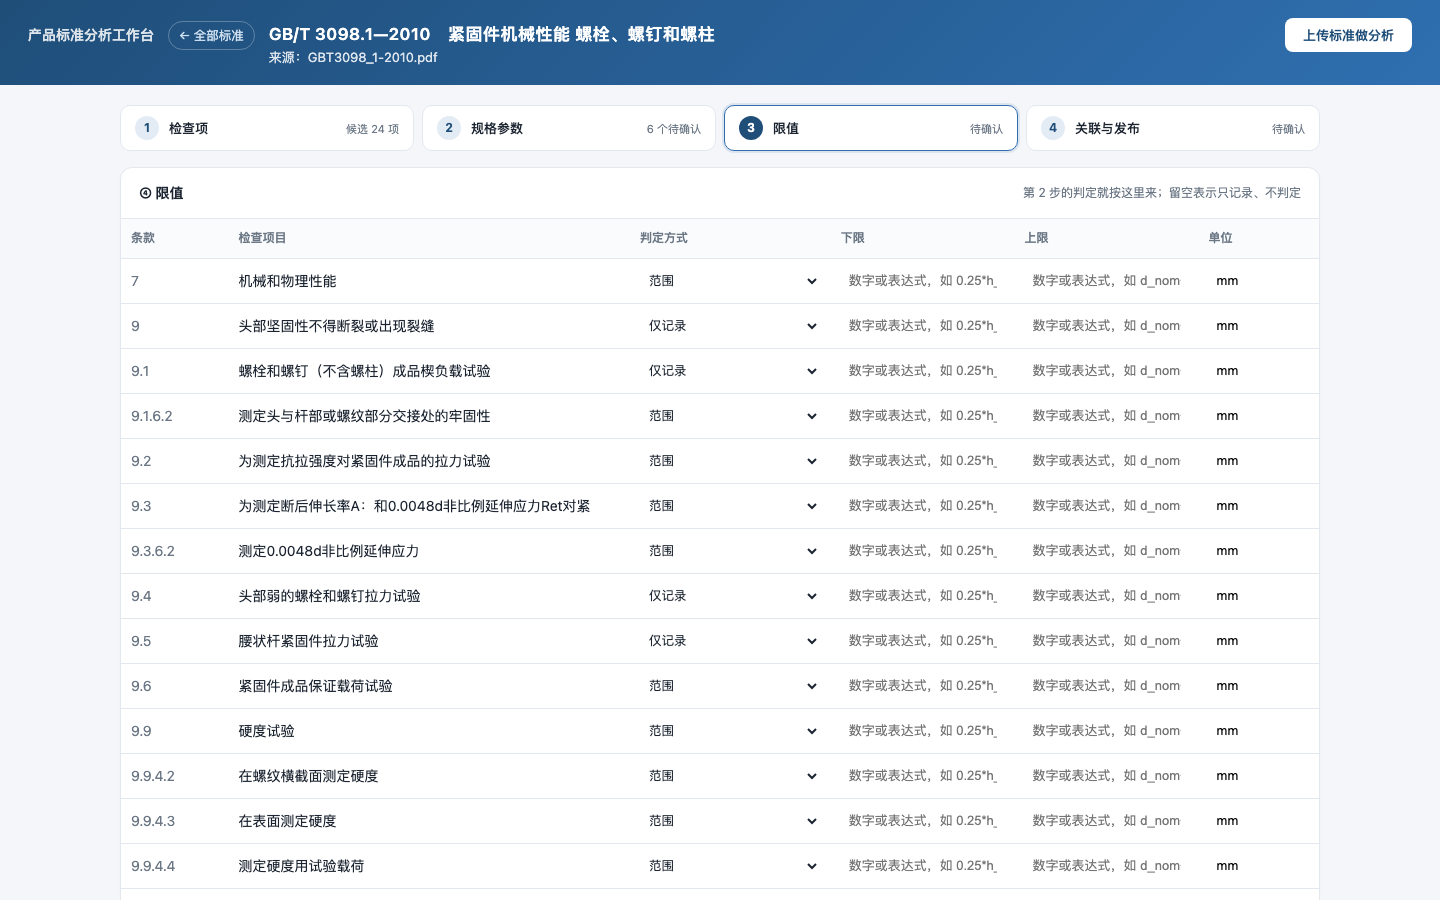
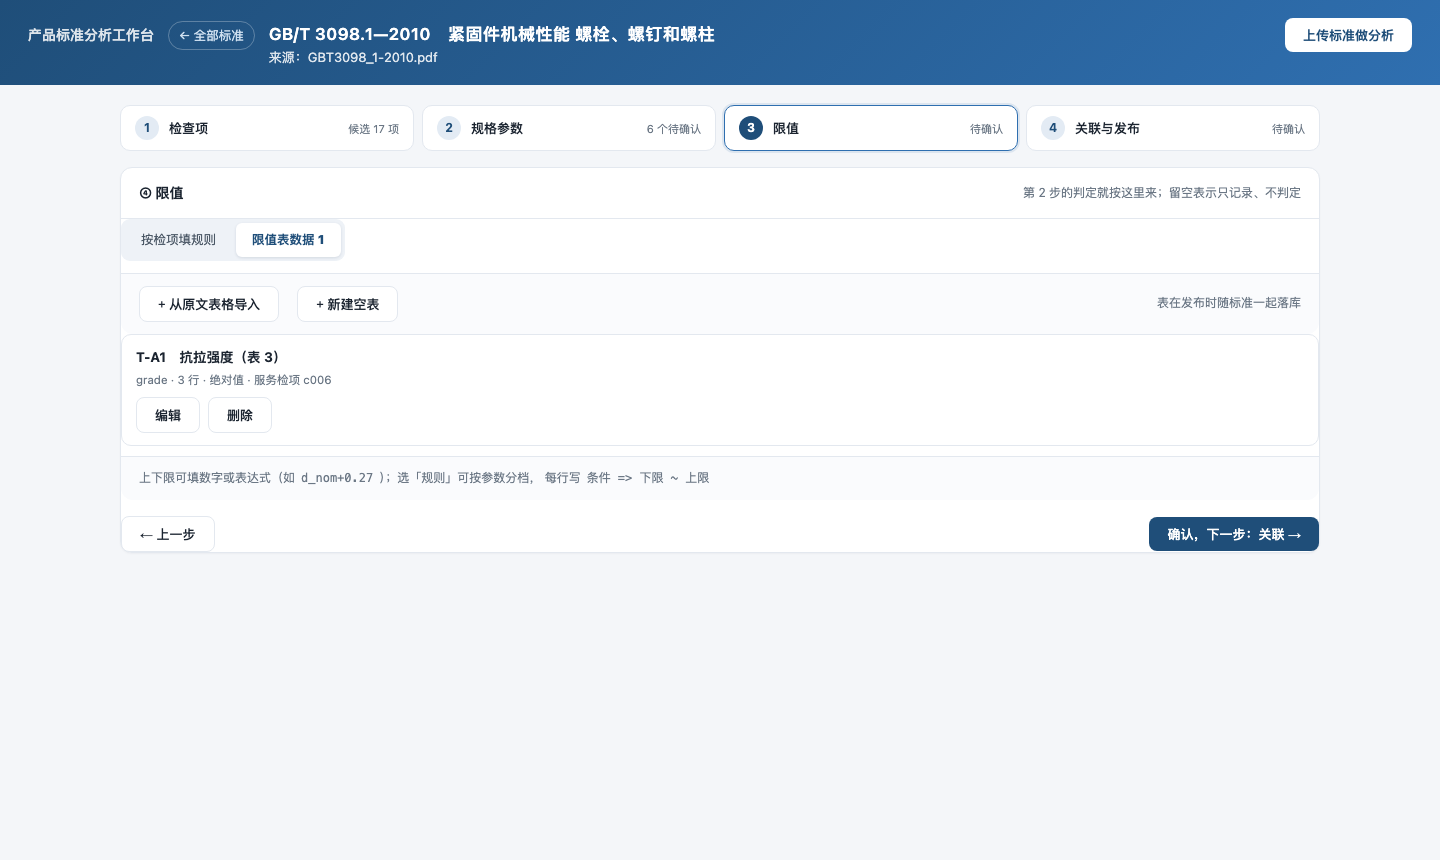
feat: 第 3 步可建限值表草稿，发布时随标准落库
- 作业新增 table_drafts：POST/DELETE /api/analyze/jobs/{id}/tables
- 第 3 步加「限值表数据」页签：从原文表格导入 / 新建空表 / 编辑 / 删除
- 编辑器支持草稿模式（E.std 为空时存作业而不是标准）
- 第 4 步来源下拉直接列出草稿表，按 item_code 预选
- 发布时把草稿表写进 limit_table/dim/row，并把 items 绑到对应表
- 修 renderLinks 的 TDZ 崩溃、发布后内存标准未刷新
- 测试补 4 项（草稿保存/可见/落库/绑定）

diff --git a/g1/service/templates/index.html b/g1/service/templates/index.html
@@ -60,6 +60,15 @@
   th:nth-child(5){width:96px} th:nth-child(6){width:150px}
   th:nth-child(7){width:96px} th:nth-child(8){width:44px}
   tbody tr.item:hover{background:#fafcff}
+  .tabs2{display:inline-flex;gap:4px;background:#eef2f7;padding:4px;border-radius:9px}
+  .tabs2 button{border:0;background:transparent;padding:7px 16px;border-radius:6px;
+                font:inherit;font-size:12.5px;color:#4a5765;cursor:pointer}
+  .tabs2 button.on{background:#fff;color:var(--brand);font-weight:600;
+                   box-shadow:0 1px 3px rgba(16,40,70,.12)}
+  .draft{border:1px solid var(--line);border-radius:10px;padding:12px 14px;margin-bottom:10px;background:#fff}
+  .draft h4{margin:0 0 4px;font-size:13.5px}
+  .draft .meta{font-size:11.5px;color:var(--muted)}
+  .draft .ops{display:flex;gap:8px;margin-top:8px}
   .steps{display:flex;gap:8px;margin-bottom:16px}
   .steps[hidden]{display:none}
   .step{flex:1;display:flex;align-items:center;gap:10px;padding:10px 14px;
@@ -419,6 +428,12 @@
         <h2>④ 限值</h2>
         <span class="hint">第 2 步的判定就按这里来；留空表示只记录、不判定</span>
       </div>
+      <div class="tabs2" id="limTabs" style="margin-bottom:12px">
+        <button class="on" data-lim="rule">按检项填规则</button>
+        <button data-lim="table">限值表数据 <b id="draftN">0</b></button>
+      </div>
+
+      <div id="limRule">
       <div style="overflow-x:auto">
         <table class="analyze">
           <thead>
@@ -433,6 +448,16 @@
           </thead>
           <tbody id="ltbody"></tbody>
         </table>
+      </div>
+      </div>
+
+      <div id="limTable" hidden>
+        <div class="summary">
+          <button class="btn ghost" id="btnImportTable">+ 从原文表格导入</button>
+          <button class="btn ghost" id="btnNewDraft">+ 新建空表</button>
+          <span class="pill" style="margin-left:auto">表在发布时随标准一起落库</span>
+        </div>
+        <div id="draftList"></div>
       </div>
       <div class="summary">
         <span class="pill">上下限可填数字或表达式（如 <code>d_nom+0.27</code>）；选「规则」可按参数分档，
@@ -998,26 +1023,102 @@ function wireSteps(){
   $('#prev4').onclick = () => showStep(3);
 }
 
+/* 第 3 步：限值表草稿 */
+function renderDrafts(){
+  const list = (JOB && JOB.table_drafts) || [];
+  $('#draftN').textContent = list.length;
+  const box = $('#draftList');
+  if(!list.length){
+    box.innerHTML = '<div class="muted" style="padding:20px 4px">还没有限值表。' +
+      '点「从原文表格导入」，把标准里的表指定成维度与限值列。</div>';
+    return;
+  }
+  box.innerHTML = list.map(t => {
+    const dims = (t.dims || []).map(d => d.code).join(' × ') || '无维度';
+    return `<div class="draft" data-id="${esc(t.id)}">
+      <h4>${esc(t.id)}　${esc(t.name || '')}</h4>
+      <div class="meta">${esc(dims)} · ${(t.rows || []).length} 行 · ${t.value_form === 'deviation'
+        ? '偏差型（叠加 ' + esc(t.nominal_param || '—') + '）' : '绝对值'}
+        ${t.item_code ? ' · 服务检项 ' + esc(t.item_code) : ''}</div>
+      <div class="ops">
+        <button class="btn ghost" data-op="edit">编辑</button>
+        <button class="btn ghost" data-op="del">删除</button>
+      </div>
+    </div>`;
+  }).join('');
+  box.onclick = async e => {
+    const btn = e.target.closest('[data-op]');
+    if(!btn) return;
+    const id = btn.closest('.draft').dataset.id;
+    const t = (JOB.table_drafts || []).find(x => x.id === id);
+    if(btn.dataset.op === 'edit'){
+      openDraftEditor(t);
+    }else{
+      await fetch(`/api/analyze/jobs/${JOB.id}/tables/${encodeURIComponent(id)}`, {method: 'DELETE'});
+      JOB.table_drafts = (JOB.table_drafts || []).filter(x => x.id !== id);
+      renderDrafts();
+    }
+  };
+}
+
+function openDraftEditor(t){
+  DRAFT = t;
+  openEditor(null, t, true);
+  $('#mSub').textContent = '作业草稿（发布时落库）';
+  E.items = (JOB.items || []).filter(i => i.selected).map(i => ({code: i.id, clause: i.clause, name: i.title}));
+  $('#eItem').innerHTML = '<option value="">—</option>' + E.items.map(i =>
+    `<option value="${i.code}" ${i.code === (t.item_code || '') ? 'selected' : ''}>${esc(i.clause)} ${esc(i.name)}</option>`).join('');
+}
+
+let DRAFT = null;
+
+$('#limTabs').onclick = e => {
+  const b = e.target.closest('[data-lim]');
+  if(!b) return;
+  document.querySelectorAll('#limTabs button').forEach(x => x.classList.toggle('on', x === b));
+  $('#limRule').hidden = b.dataset.lim !== 'rule';
+  $('#limTable').hidden = b.dataset.lim !== 'table';
+};
+
+$('#btnImportTable').onclick = () => {
+  SRC.draftMode = true;
+  $('#srcModal').hidden = false;
+  $('#sMsg').textContent = '';
+  $('#sJob').innerHTML = `<option value="${JOB.id}">${esc(JOB.code || JOB.filename)}</option>`;
+  $('#sJob').disabled = true;
+  $('#sItem').innerHTML = '<option value="">—</option>' + (JOB.items || []).filter(i => i.selected).map(i =>
+    `<option value="${i.id}">${esc(i.clause)} ${esc(i.title)}</option>`).join('');
+  loadSourceTables(JOB.id);
+};
+
+$('#btnNewDraft').onclick = () => {
+  openDraftEditor({id: 'T-' + Date.now().toString(36), name: '手动新建', unit: 'mm',
+                   value_form: 'absolute', nominal_param: null, item_code: '', dims: [], rows: []});
+};
+
 /* 第 4 步：检项 → 限值来源 */
 function renderLinks(){
   if(!JOB) return;
   const tb = $('#lkbody');
   const links = JOB.links || {};
   const items = (JOB.items || []).filter(i => i.selected);
+  const drafts = (JOB && JOB.table_drafts) || [];
   tb.innerHTML = items.map(it => {
-    const src = links[it.id] || (it.table ? 'table' : 'rule');
+    const bound = drafts.find(d => d.item_code === it.id);
+    const src = links[it.id] || it.table || (bound ? bound.id : 'rule');
     const lim = (JOB.limits || {})[it.id] || {};
-    const table = it.table || '';
-    const desc = src === 'table'
-      ? `查表 ${table ? '<b>' + esc(table) + '</b>' : '（发布后在「限值表」页建立）'}`
-      : (lim.mode === 'rule' ? '按参数分档的规则' : '常量 / 区间');
+    const draft = drafts.find(d => d.id === src);
+    const desc = src === 'rule'
+      ? (lim.mode === 'rule' ? '按参数分档的规则' : '常量 / 区间')
+      : (draft ? `${(draft.dims || []).map(d => d.code).join(' × ')} · ${(draft.rows || []).length} 行`
+               : '查表（未选择具体表）');
+    const opts = [`<option value="rule" ${src === 'rule' ? 'selected' : ''}>手填规则</option>`]
+      .concat(drafts.map(t => `<option value="${esc(t.id)}" ${src === t.id ? 'selected' : ''}>表 ${esc(t.id)}｜${esc(t.name || '')}</option>`))
+      .join('');
     return `<tr data-id="${esc(it.id)}">
       <td>${esc(it.clause)}</td>
       <td>${esc(it.title)}</td>
-      <td><select class="lk">
-        <option value="rule" ${src === 'rule' ? 'selected' : ''}>手填规则</option>
-        <option value="table" ${src === 'table' ? 'selected' : ''}>查限值表</option>
-      </select></td>
+      <td><select class="lk">${opts}</select></td>
       <td class="desc">${desc}</td>
     </tr>`;
   }).join('') || '<tr><td colspan="4" class="muted" style="padding:16px">还没有确认的检项</td></tr>';
@@ -1206,6 +1307,10 @@ $('#sBuild').onclick = () => {
   const draft = buildDraftFromSource();
   if(!draft) return;
   $('#srcModal').hidden = true;
+  if(SRC.draftMode){                       // 向导第 3 步：存成作业草稿
+    openDraftEditor(draft);
+    return;
+  }
   openEditor(E.std, draft, true);
   $('#eMsg').textContent = `已从原文生成 ${draft.rows.length} 行草稿，核对后再保存`;
 };
@@ -1351,6 +1456,20 @@ async function saveEditor(){
   };
   if(!payload.id){ $('#eMsg').textContent = '表 id 不能为空'; return; }
   if(!rows.length){ $('#eMsg').textContent = '没有行，先按维度展开'; return; }
+  if(!E.std){                              // 作业草稿：发布时随标准落库
+    payload.dims = readDims();
+    const r0 = await fetch(`/api/analyze/jobs/${JOB.id}/tables`, {
+      method: 'POST', headers: {'Content-Type':'application/json'},
+      body: JSON.stringify(payload),
+    });
+    const d0 = await r0.json().catch(() => ({}));
+    if(!r0.ok){ $('#eMsg').textContent = '保存失败：' + (d0.detail || r0.status); return; }
+    JOB.table_drafts = (JOB.table_drafts || []).filter(t => t.id !== payload.id).concat([payload]);
+    $('#eMsg').textContent = `已保存 ${payload.rows.length} 行到作业草稿`;
+    $('#modal').hidden = true;
+    renderDrafts();
+    return;
+  }
   const r = await fetch(`/api/standards/${encodeURIComponent(E.std)}/tables/${encodeURIComponent(payload.id)}`, {
     method: 'PUT', headers: {'Content-Type':'application/json'},
     body: JSON.stringify(payload)
@@ -1597,6 +1716,13 @@ function renderJob(){
   };
   renderParams();
   renderLimits();
+  renderDrafts();
+  if((JOB.table_drafts || []).length){
+    document.querySelectorAll('#limTabs button').forEach(x =>
+      x.classList.toggle('on', x.dataset.lim === 'table'));
+    $('#limRule').hidden = true;
+    $('#limTable').hidden = false;
+  }
   renderLinks();
   $('#uploadCard').hidden = true;
   $('#steps').hidden = false;
@@ -1841,10 +1967,10 @@ $('#btnPublish').onclick = async () => {
   try { await saveItems(); } catch(e){ $('#pmsg').textContent = '保存失败'; return; }
   await saveStep(4, true);
   const links = JOB.links || {};
-  const items = JOB.items.filter(x => x.selected).map(it => ({
-    ...it,
-    table: links[it.id] === 'table' ? (it.table || '') : '',
-  }));
+  const items = JOB.items.filter(x => x.selected).map(it => {
+    const src = links[it.id] || 'rule';
+    return {...it, table: src === 'rule' ? '' : src};
+  });
   const payload = {
     job_id: JOB.id,
     code: $('#stdCode').value.trim(),

diff --git a/g1/service/app.py b/g1/service/app.py
@@ -220,6 +220,7 @@ def std_editor(std_id: str):
         "params": [p.meta() for p in std.params],
         "items": [{"code": i["id"], "name": i.get("name") or i.get("title") or i["id"],
                    "clause": i.get("clause", ""), "page": i.get("page"),
+                   "table": i.get("table") or "",
                    "kind": i.get("kind") or i.get("category") or "其他"} for i in std.items],
         "tables": dbmod.table_detail(conn, std.id),
     }
@@ -552,7 +553,7 @@ def analyze_job(job_id: str):
 
 
 STEP_FIELDS = {"items": "items", "params": "params_spec",
-               "limits": "limits", "links": "links"}
+               "limits": "limits", "links": "links", "tables": "table_drafts"}
 
 
 @app.post("/api/analyze/jobs/{job_id}/step/{name}")
@@ -570,6 +571,31 @@ def save_step(job_id: str, name: str, payload: StepPayload):
     kw["steps"] = steps
     jobstore.STORE.update(job_id, **kw)
     return {"ok": True, "steps": steps}
+
+
+@app.post("/api/analyze/jobs/{job_id}/tables")
+def save_draft_table(job_id: str, payload: dict):
+    """在作业里建/改一张限值表草稿（发布时一起落库）。"""
+    job = jobstore.STORE.get(job_id)
+    if not job:
+        raise HTTPException(404, "作业不存在")
+    t = dict(payload)
+    if not t.get("id"):
+        t["id"] = "T-" + uuid.uuid4().hex[:6]
+    drafts = [d for d in (job.table_drafts or []) if d.get("id") != t["id"]]
+    drafts.append(t)
+    jobstore.STORE.update(job_id, table_drafts=drafts)
+    return {"ok": True, "id": t["id"], "count": len(drafts)}
+
+
+@app.delete("/api/analyze/jobs/{job_id}/tables/{table_id}")
+def delete_draft_table(job_id: str, table_id: str):
+    job = jobstore.STORE.get(job_id)
+    if not job:
+        raise HTTPException(404, "作业不存在")
+    drafts = [d for d in (job.table_drafts or []) if d.get("id") != table_id]
+    jobstore.STORE.update(job_id, table_drafts=drafts)
+    return {"ok": True, "count": len(drafts)}
 
 
 @app.put("/api/analyze/jobs/{job_id}/items")
@@ -687,7 +713,17 @@ def publish(payload: PublishPayload):
     dbmod.save_payload(conn, data)          # 落库：参数 + 检项 + 限值
     if payload.job_id:
         dbmod.link_document(conn, payload.job_id, std.id)
+        job = jobstore.STORE.get(payload.job_id)
+        for draft in (job.table_drafts if job else []) or []:
+            dbmod.save_table(conn, std.id, draft)
+            if draft.get("item_code"):
+                dbmod.bind_table(conn, std.id, draft["item_code"], draft["id"])
+        for it in data.get("items") or []:
+            if it.get("table"):
+                dbmod.bind_table(conn, std.id, it["id"], it["table"])
     register(std, replace=True)
+    if payload.job_id:
+        _reload(std.id)          # 草稿表绑定改的是库，内存里的标准要重读
     if payload.job_id:
         jobstore.STORE.update(payload.job_id, published_id=std.id,
                               params_spec=data["params"], limits=data["limits"])

diff --git a/g1/service/test_analyze.py b/g1/service/test_analyze.py
@@ -280,6 +280,34 @@ def main():
     st, _, _ = post_raw(f"/api/analyze/jobs/{job_id}/step/nope", {"data": {}, "confirmed": True})
     check("未知步骤返回 400", st == 400, str(st))
 
+    print("6d. 限值表草稿随发布落库")
+    first = picked[0]
+    draft = {
+        "id": "T-TEST", "name": "草稿表", "unit": "MPa", "value_form": "absolute",
+        "nominal_param": None, "item_code": first["id"],
+        "dims": [{"code": j2["params_spec"][0]["code"], "kind": "enum", "values": ["A"]}],
+        "rows": [{"key": {j2["params_spec"][0]["code"]: "A"}, "lower": 100, "upper": 200,
+                  "na": False, "note": "测试"}],
+    }
+    d1 = post(f"/api/analyze/jobs/{job_id}/tables", draft)
+    check("草稿保存到作业", d1.get("ok") and d1.get("id") == "T-TEST", str(d1))
+    check("作业里能看到草稿",
+          any(t["id"] == "T-TEST" for t in getjson(f"/api/analyze/jobs/{job_id}")["table_drafts"]))
+
+    pub2 = post("/api/standards/publish", {
+        "job_id": job_id, "code": "GB/T 7777-TEST", "title": "草稿表测试",
+        "params": j2["params_spec"], "items": picked, "limits": {},
+    })
+    ed = getjson(f"/api/standards/{pub2['std_id']}/editor")
+    check("发布后表已落库", any(t["id"] == "T-TEST" for t in ed["tables"]),
+          str([t["id"] for t in ed["tables"]]))
+    check("检项绑到了这张表",
+          next((i for i in ed["items"] if i["code"] == first["id"]), {}).get("table") == "T-TEST")
+    post(f"/api/standards/unpublish/{pub2['std_id']}", {})
+    req = urllib.request.Request(f"{BASE}/api/analyze/jobs/{job_id}/tables/T-TEST", method="DELETE")
+    with urllib.request.urlopen(req, timeout=10) as r:
+        r.read()
+
     print("7. 原文与清理")
     req = urllib.request.Request(f"{BASE}/api/standards/unpublish/{std_id}", method="POST")
     with urllib.request.urlopen(req, timeout=10) as r:

diff --git a/g1/service/jobs.py b/g1/service/jobs.py
@@ -46,6 +46,7 @@ class Job:
     published_id: str = ""                                  # 发布后对应的标准 id
     steps: dict = field(default_factory=dict)               # 每一步是否已确认
     links: dict = field(default_factory=dict)               # item_id -> 限值来源
+    table_drafts: list[dict] = field(default_factory=list)   # 发布前在作业里建的限值表草稿
     created_at: float = field(default_factory=time.time)
 
     def public(self) -> dict:
